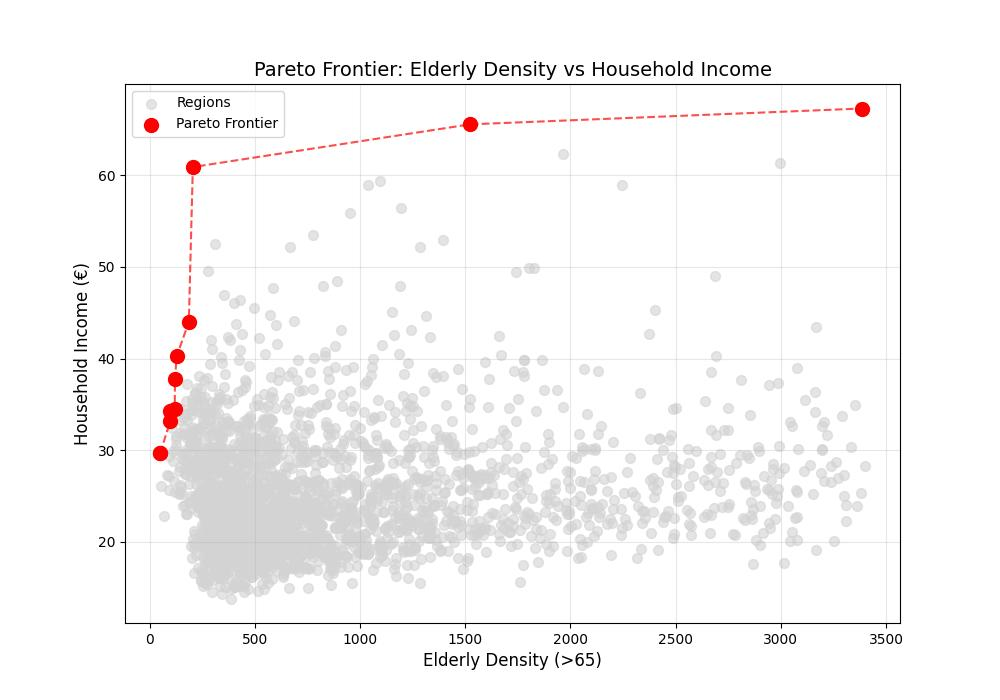
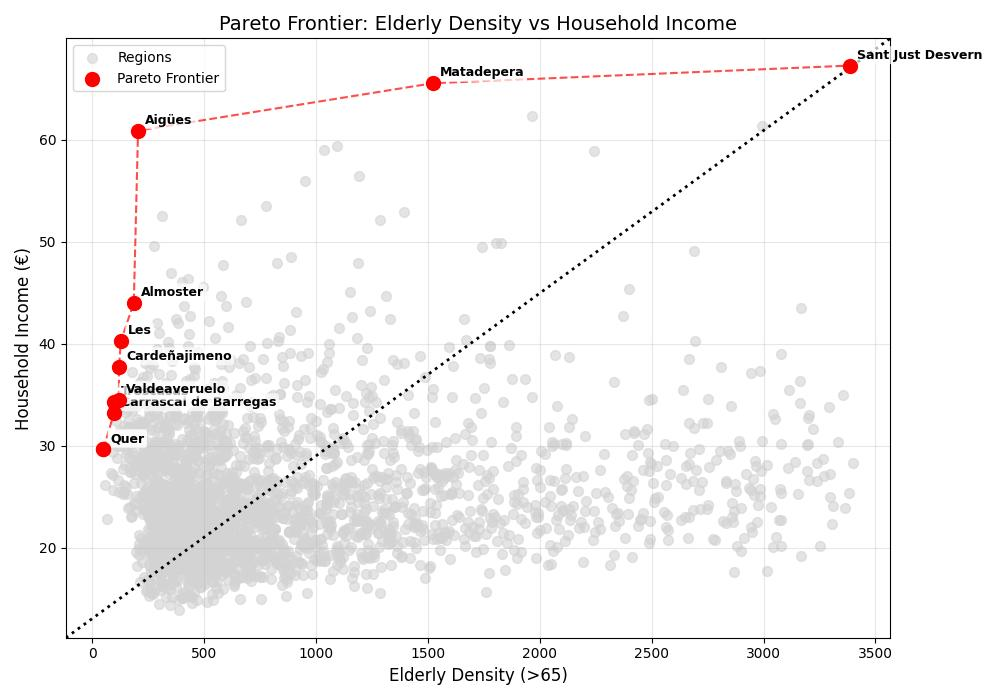
images update

diff --git a/scripts/pareto_optimal.py b/scripts/pareto_optimal.py
@@ -36,17 +36,28 @@ plt.plot(pareto_df["poblacion_65_mas"], pareto_df["renta_bruta_media"],
          color="red", linestyle="--", alpha=0.7)
 
 for _, row in pareto_df.iterrows():
-    plt.text(row["poblacion_65_mas"]+0.3, row["renta_bruta_media"]+200,
-             row["municipio"],
-             fontsize=9, fontweight='bold',
-             bbox=dict(facecolor='white', alpha=0.7, edgecolor='none', boxstyle='round,pad=0.2'))
-
+    plt.annotate(
+        row["municipio"],
+        (row["poblacion_65_mas"], row["renta_bruta_media"]),
+        xytext=(5, 5),  # pixel offset for readability
+        textcoords="offset points",
+        fontsize=9,
+        fontweight='bold',
+        color='black',
+        bbox=dict(facecolor='white', alpha=0.7, edgecolor='none', boxstyle='round,pad=0.2'),
+        arrowprops=dict(arrowstyle='-', color='gray', alpha=0.5, lw=0.8)
+    )
 plt.title("Pareto Frontier: Elderly Density vs Household Income", fontsize=14)
 plt.xlabel("Elderly Density (>65)", fontsize=12)
 plt.ylabel("Household Income (€)", fontsize=12)
 plt.legend()
 plt.grid(alpha=0.3)
 plt.tight_layout()
+
+
+ax = plt.gca()
+ax.plot([0, 1], [0, 1], transform=ax.transAxes, color='k', linestyle=':', linewidth=2, label='Visual diagonal')
+
 plt.savefig(f"pareto.jpg")
 plt.show()
 
